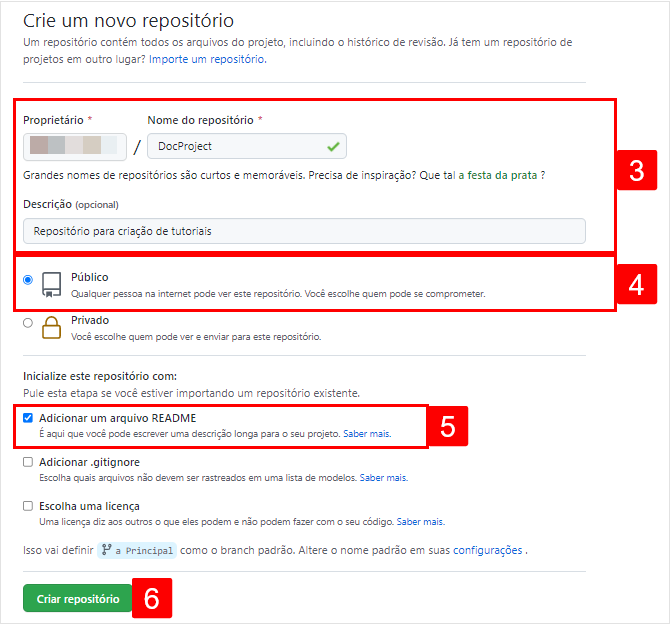
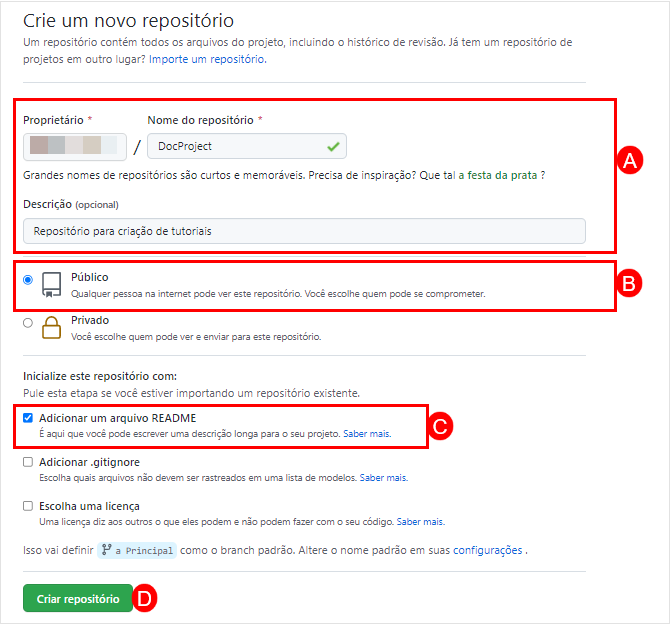
Novo conteúdo pg 'Instalando Retype'

diff --git a/Aprenda Comigo/Retype/Instalação do Retype.md b/Aprenda Comigo/Retype/Instalação do Retype.md
@@ -14,7 +14,7 @@ Lembrando que o retype usa o GitHub para hospedar os arquivos. Por isso caso nã
 ---
 
 ## Repositório GitHub
-Bem, o primeiro passo é realizar o login na sua conta do [!button variant="info" corners="pill"  size="xs" text="GitHub"](https://github.com/login).
+>Bem, o primeiro passo é realizar o login na sua conta do [!button variant="info" corners="pill"  size="xs" text="GitHub"](https://github.com/login).
 
 ![Login no GitHub](../img/001.png "Realize seu login")
 
@@ -25,39 +25,43 @@ Agora, vamos abrir o perfil para acessar nossa lista de repositórios do GitHub:
 <br>
 
 ### **Passo 01**
+>Selecione a opção `Repositórios`:
 
 ![Lista de Repositórios](../img/01.png)
-1. Selecione a opção "Repositórios"
+
 
 <br>
 
 ### **Passo 02**
+>Clique em `Novo`:
 
 ![Novo Repositório](../img/02.png)
-2. Clique em `Novo`.
+
 
 <br>
 
 ### **Passo 03**
+> Agora vamos configurar nosso repositório para que o Retype possa acessá-lo:
+
 ![Configuração do Repositório](../img/03.png)
-3. Defina o nome do seu repositório. Se desejar, poderá inserir uma descrição sobre ele; <br>
-4. Marque este repositório como `Público`;
+
+>[!badge variant="danger" corners="pill" text="**A**"] Defina o nome do seu repositório. Se desejar, poderá inserir uma descrição sobre ele; <br>
+>[!badge variant="danger" corners="pill" text="**B**"]  Marque este repositório como `Público`;
 !!!warning
 Caso seu repositório não seja definido como Público o Retype não conseguirá acessá-lo!
 !!!
 
-5. Adicionar o arquivo _README_ ele será usado como arquivo (página) principal do Retype;
-
-6. Por fim, clique em `Criar`.
+>[!badge variant="danger" corners="pill" text="**C**"]  Adicionar o arquivo _README_ ele será usado como arquivo (página) principal do Retype; <br>
+>[!badge variant="danger" corners="pill" text="**D**"]  Por fim, clique em `Criar`.
 
 <br>
 
 ### **Passo 04**
-Com o repositório criado, iremos agora copiar o link para realizar a clonagem para nossa máquina local, conforme imagem abaixo:
+>Com o repositório criado, iremos agora copiar o link para realizar a clonagem para nossa máquina local, conforme imagem abaixo:
 
 ![Link para Clonagem do Repositório](../img/04.png)
-7. Clique em `Código`; <br>
-8. Copie a url disponibilizada.
+>[!badge variant="danger" corners="pill" text="**A**"]  Clique em `Código`; <br>
+>[!badge variant="danger" corners="pill" text="**B**"]  Copie a url disponibilizada.
 
 
 
@@ -65,21 +69,23 @@ Com o repositório criado, iremos agora copiar o link para realizar a clonagem p
 ---
 
 ## Instalação do Retype
-Agora iremos usar um terminal para realizar a clonagem do repositório criado.
+>Agora iremos usar um terminal para realizar a clonagem do repositório criado.
 Aqui, estou usando o `Visual Code`, mas fique a vontade para usar o terminal de sua preferencia.
 
 <br>
 
 ### **Passo 01**
-Use o comando abaixo para realizar a clonagem do seu repositório:
+>Use o comando abaixo para realizar a clonagem do seu repositório:
 `git clone [url do repositório]`
-![](../img/05.png)
+
+![Realizando Clone do Projeto](../img/05.png)
+
 ==- Exemplo
-git clone https://github.com/EstherZR/DocProject.git
+git clone https://github.com/retypeapp/retype.git
 ==-
 
 !!!success
-O resultado deverá ser conforme área circulada em verde.
+O resultado deverá ser conforme área destacada em verde.
 !!!
 
 <br>
@@ -87,8 +93,9 @@ O resultado deverá ser conforme área circulada em verde.
 
 
 ### **Passo 02**
-Agora acesse a pasta clonada usando o comando `cd nomeRepositorio`;
-![](../img/06.png)
+>Agora acesse a pasta clonada usando o comando `cd nomeRepositorio`;
+
+![Acessando pasta do projeto](../img/06.png)
 
 
 <br>
@@ -97,18 +104,28 @@ Agora acesse a pasta clonada usando o comando `cd nomeRepositorio`;
 
 
 ### **Passo 03**
-Execute o comando para instalação do retype: `npm install retypeapp --global`
-![](../img/07.png)
+>Execute o comando para instalação do retype: `npm install retypeapp --global`
+
+![Instalando o Retype](../img/07.png)
 
 <br>
 <br>
 
 
 ### **Passo 04**
-Para executar o Retype localmente, execute o comando `retype watch`
 
-Acessando a url `localhost: 5000/nomeRepositorio` você já poderá visulizar sua página Retype.
+>Para executar o Retype localmente, execute o comando `retype watch`
+Acessando a url `localhost:5000/nomeRepositorio` você já poderá visulizar sua página Retype.
  
+---
+
+## Hospendando Projeto
+>Depois de todos os passos acima, você já pode configurar sua página para ser acessada externamente.
+Então você poderá realizar as modificações na sua máquina local e usar uma série de comandos git para atualizar sua página externa.
+
+!!!<span style="color:darkgreen">**Mas por que devo fazer isso?** 🧐 </span>  
+A resposta é simples, para que pessoas fora da sua rede de internet possam acessar seu conteúdo. Se não realizar esse passo, apenas você visualizar sua página.
+!!!
 
 <br>
 <br>
